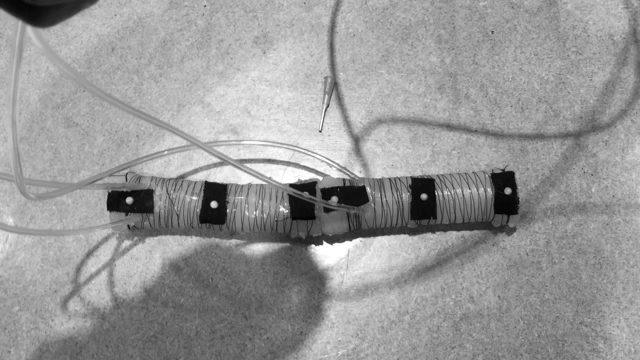
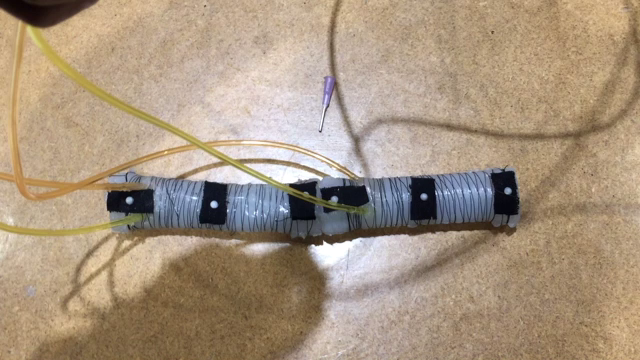
updates with opencv3

diff --git a/vid_proc.py b/vid_proc.py
@@ -1,5 +1,12 @@
 import numpy as np
 import cv2
+import find_squares
+
+
+BASIC_PLOT = False
+HARRIS_PLOT = False
+HOUGH_CIRCLE_PLOT = False
+CONTOUR_BOUND = True
 
 cap = cv2.VideoCapture('IMG_0344.1.m4v')
 
@@ -12,13 +19,43 @@ while(True):
 	# Our operations on the frame come here
 	gray = cv2.cvtColor(frame, cv2.COLOR_BGR2GRAY)
 
+	if HARRIS_PLOT:
+		dst = cv2.cornerHarris(gray,2,3,0.04)
+
+		#result is dilated for marking the corners, not important
+		dst = cv2.dilate(dst,None)
+
+		# Threshold for an optimal value, it may vary depending on the image.
+		frame[dst>0.01*dst.max()]=[0,0,255]
+
+	if HOUGH_CIRCLE_PLOT:
+		img = cv2.medianBlur(frame,5)
+		# cimg = cv2.cvtColor(img,cv2.COLOR_GRAY2BGR)
+		cimg = gray
+		circles = cv2.HoughCircles(img,cv2.HOUGH_GRADIENT,1,50,
+							param1=100,param2=40,minRadius=0,maxRadius=100)
+		circles = np.uint16(np.around(circles))
+		for i in circles[0,:]:
+			# draw the outer circle
+			cv2.circle(cimg,(i[0],i[1]),i[2],(0,255,0),2)
+			# draw the center of the circle
+			cv2.circle(cimg,(i[0],i[1]),2,(0,0,255),3)
+
+	if CONTOUR_BOUND:
+		find_squares(frame)
+
 	# Display the resulting frame
-	cv2.imshow('frame',gray)
+	if BASIC_PLOT:
+		cv2.imshow('frame',frame)
+	elif HARRIS_PLOT:
+		cv2.imshow('frame', gray)
+	elif HOUGH_CIRCLE_PLOT:
+		cv2.imshow('Detected Circles', cimg)
 	if cv2.waitKey(1) & 0xFF == ord('q'):
 		break
 
 	if i_iter == 1:
-		cv2.imwrite('Image_01.png', gray)
+		cv2.imwrite('Image_01.png', frame)
 # When everything done, release the capture
 cap.release()
 cv2.destroyAllWindows()

diff --git a/test_harris.py b/test_harris.py
@@ -1,6 +1,6 @@
 import cv2
 import numpy as np
-import matplotlib.pyplot as plt
+# import matplotlib.pyplot as plt
 
 filename = 'Image_01.png'
 img = cv2.imread(filename)
@@ -15,9 +15,9 @@ dst = cv2.dilate(dst,None)
 # Threshold for an optimal value, it may vary depending on the image.
 img[dst>0.01*dst.max()]=[0,0,255]
 
-# cv2.imshow('dst',img)
-# cv2.waitKey(0)
-plt.imshow(img)
-plt.show()
-# if cv2.waitKey(0) & 0xff == 27:
-#     cv2.destroyAllWindows()
+cv2.imshow('dst',img)
+cv2.waitKey(0)
+# plt.imshow(img)
+# plt.show()
+if cv2.waitKey(0) & 0xff == 27:
+    cv2.destroyAllWindows()

diff --git a/test_hough_circle.py b/test_hough_circle.py
@@ -1,7 +1,7 @@
 import cv2
 # import cv2.cv as cv
 import numpy as np
-import matplotlib.pyplot as plt
+# import matplotlib.pyplot as plt
 
 filename = 'Image_01.png'
 img = cv2.imread(filename,0)
@@ -18,8 +18,8 @@ for i in circles[0,:]:
     # draw the center of the circle
     cv2.circle(cimg,(i[0],i[1]),2,(0,0,255),3)
 
-# cv2.imshow('detected circles',cimg)
-# cv2.waitKey(0)
-# cv2.destroyAllWindows()
-plt.imshow(cimg)
-plt.show()
+cv2.imshow('detected circles',cimg)
+cv2.waitKey(0)
+cv2.destroyAllWindows()
+# plt.imshow(cimg)
+# plt.show()

diff --git a/sift_test.py b/sift_test.py
@@ -1,6 +1,6 @@
 import cv2
 import numpy as np
-import matplotlib.pyplot as plt
+# import matplotlib.pyplot as plt
 
 
 print(cv2.__version__)
@@ -14,8 +14,8 @@ cv2.imwrite('sift_keypoints.jpg',img)
 
 
 
-plt.imshow(img)
-plt.show()
-# cv2.imwshow('sift_keypoints.jpg',img)
-# cv2.waitKey(0)
-# cv2.destroyAllWindows()
+# plt.imshow(img)
+# plt.show()
+cv2.imwshow('sift_keypoints.jpg',img)
+cv2.waitKey(0)
+cv2.destroyAllWindows()
